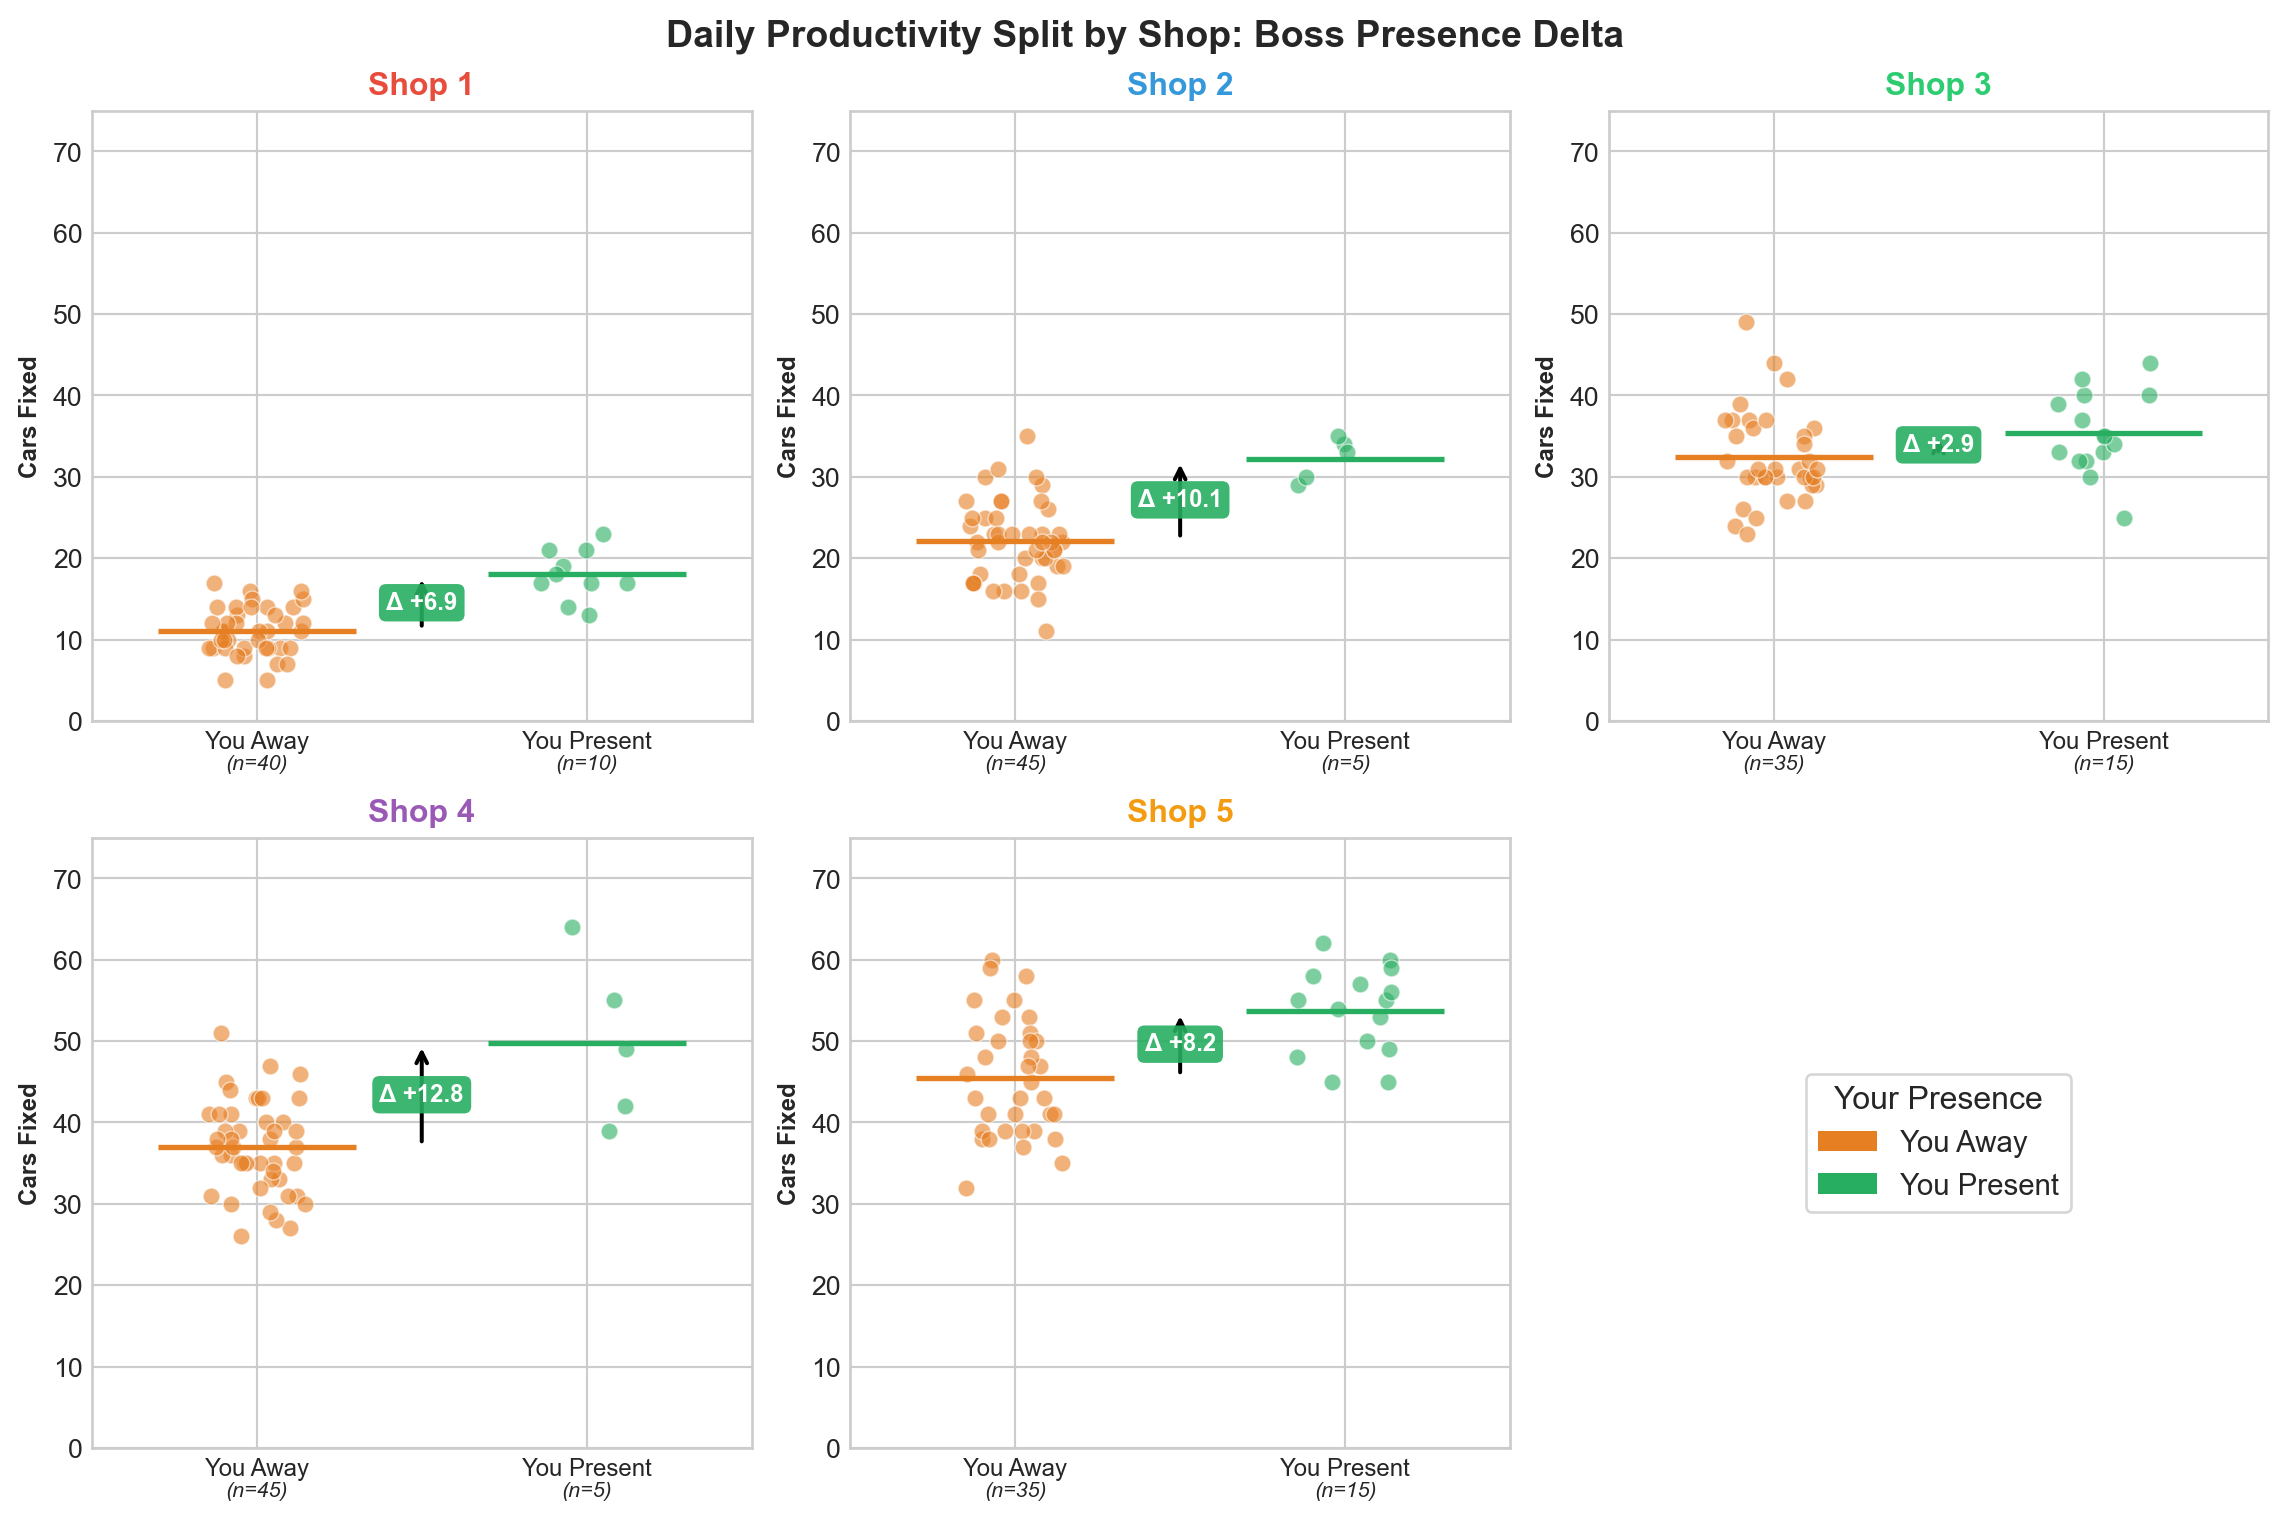
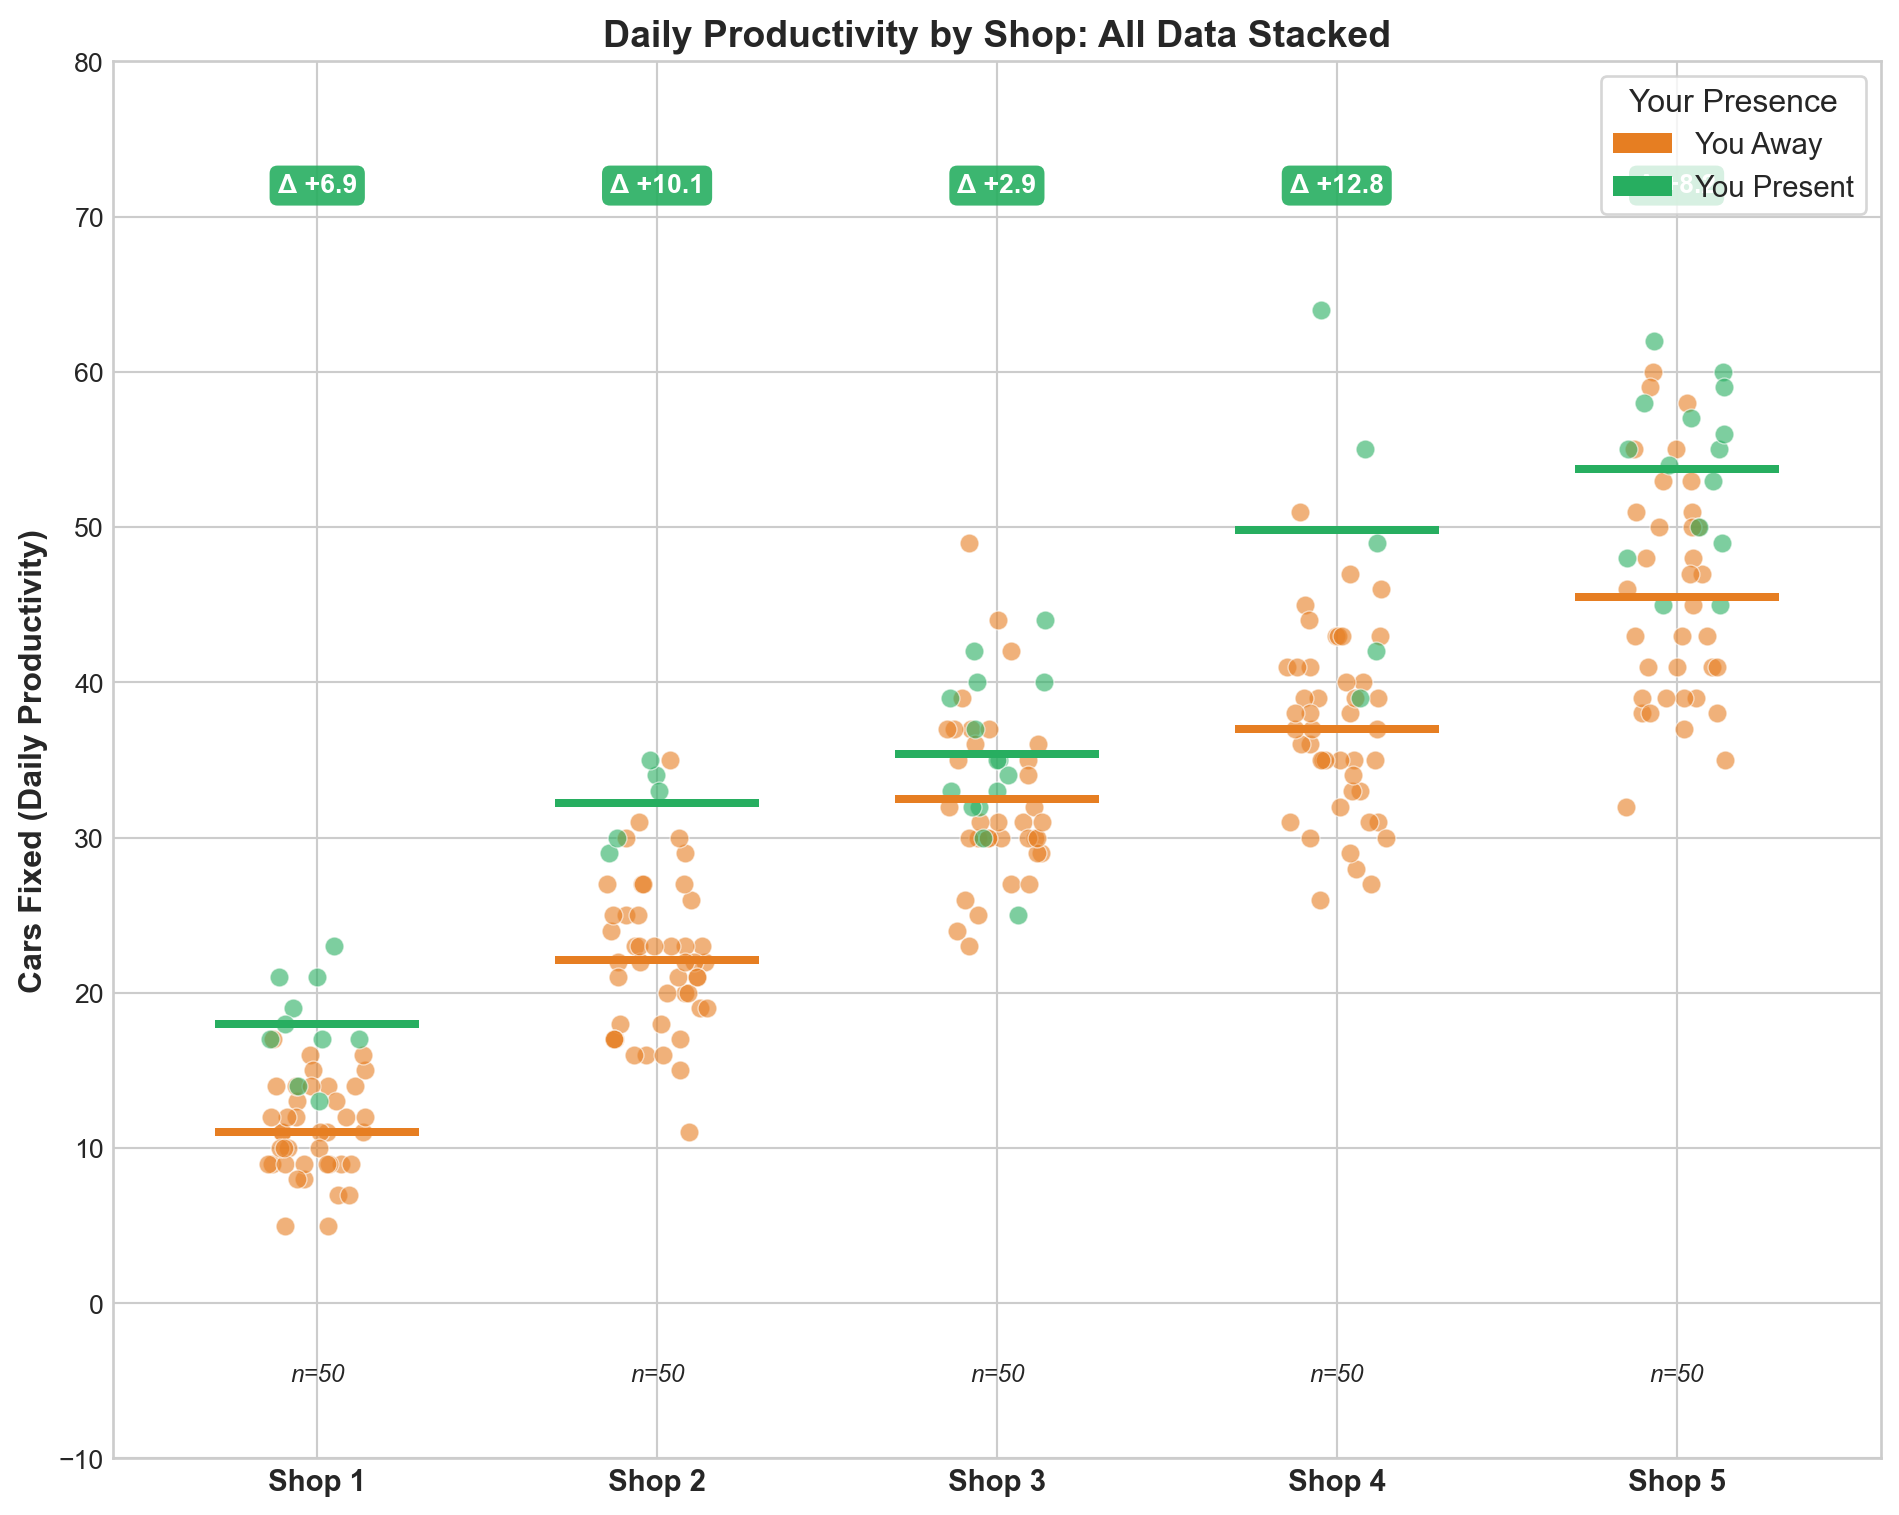
Update index.qmd and generated outputs

diff --git a/index.html b/index.html
@@ -105,23 +105,23 @@ ul.task-list li input[type="checkbox"] {
 <section id="what-the-data-shows" class="level2">
 <h2 class="anchored" data-anchor-id="what-the-data-shows">What the Data Shows</h2>
 <p>We analyzed 250 days of productivity data across your 5 shops. Here’s every single day plotted—you can see the pattern clearly:</p>
-<div id="36f07e7e" class="cell" data-fig-height="8" data-fig-width="12" data-execution_count="2">
+<div id="d5fda921" class="cell" data-fig-height="8" data-fig-width="10" data-execution_count="2">
 <div class="cell-output cell-output-display">
 <div class="quarto-figure quarto-figure-center">
 <figure class="figure">
-<p><img src="index_files/figure-html/cell-3-output-1.png" width="1144" height="760" class="figure-img"></p>
+<p><img src="index_files/figure-html/cell-3-output-1.png" width="950" height="758" class="figure-img"></p>
 <figcaption>Each dot is one day. Green = you were there. Orange = you were away. Delta shows the difference in average cars fixed.</figcaption>
 </figure>
 </div>
 </div>
 </div>
-<p><strong>What you see:</strong> Each panel shows one shop, with data points split by your presence. The delta (Δ) shows how many more cars get fixed when you’re there. Shop 4 has the biggest delta (+12.6), while Shop 3 (your brother’s shop) shows the smallest improvement (+3.4). Notice how Shop 2’s high delta (+10.1) comes from just 5 data points—less reliable than the others.</p>
+<p><strong>What you see:</strong> All shops are stacked in one view, with each column showing one shop’s daily productivity. Green dots = you were there, orange dots = you were away. The horizontal lines show the mean for each condition. The delta (Δ) shows how many more cars get fixed when you’re there. Shop 4 has the biggest delta (+12.6), while Shop 3 (your brother’s shop) shows the smallest improvement (+3.4).</p>
 <hr>
 </section>
 <section id="distribution-comparison-violin-plot" class="level2">
 <h2 class="anchored" data-anchor-id="distribution-comparison-violin-plot">Distribution Comparison: Violin Plot</h2>
 <p>This violin plot reveals the full shape of productivity distributions—not just averages, but how spread out and consistent each shop performs:</p>
-<div id="e44502a3" class="cell" data-fig-height="6" data-fig-width="8" data-execution_count="3">
+<div id="662a1bc4" class="cell" data-fig-height="6" data-fig-width="8" data-execution_count="3">
 <div class="cell-output cell-output-display">
 <div class="quarto-figure quarto-figure-center">
 <figure class="figure">
@@ -137,11 +137,11 @@ ul.task-list li input[type="checkbox"] {
 <section id="split-violin-plot-direct-comparison-by-shop" class="level2">
 <h2 class="anchored" data-anchor-id="split-violin-plot-direct-comparison-by-shop">Split Violin Plot: Direct Comparison by Shop</h2>
 <p>This split violin plot shows the productivity distribution for each shop with boss presence on opposite sides—making it easy to compare the “shape” of performance directly:</p>
-<div id="ce65175b" class="cell" data-fig-height="6" data-fig-width="8" data-execution_count="4">
+<div id="32ad083c" class="cell" data-fig-height="8" data-fig-width="8" data-execution_count="4">
 <div class="cell-output cell-output-display">
 <div class="quarto-figure quarto-figure-center">
 <figure class="figure">
-<p><img src="index_files/figure-html/cell-5-output-1.png" width="758" height="566" class="figure-img"></p>
+<p><img src="index_files/figure-html/cell-5-output-1.png" width="758" height="758" class="figure-img"></p>
 <figcaption>Split violin plot: Each shop’s productivity distribution split by boss presence (orange = away, green = present)</figcaption>
 </figure>
 </div>
@@ -153,7 +153,7 @@ ul.task-list li input[type="checkbox"] {
 <section id="d-view-shop-performance-landscape" class="level2">
 <h2 class="anchored" data-anchor-id="d-view-shop-performance-landscape">3D View: Shop Performance Landscape</h2>
 <p>Here’s an interactive 3D perspective showing all three dimensions at once—Shop ID, your presence status, and cars fixed:</p>
-<div id="4c04d5a2" class="cell" data-fig-height="8" data-fig-width="10" data-execution_count="5">
+<div id="e8c9e2f2" class="cell" data-fig-height="8" data-fig-width="10" data-execution_count="5">
 <div class="cell-output cell-output-display">
 <div class="quarto-figure quarto-figure-center">
 <figure class="figure">
@@ -169,7 +169,7 @@ ul.task-list li input[type="checkbox"] {
 <section id="the-boss-boost-effect" class="level2">
 <h2 class="anchored" data-anchor-id="the-boss-boost-effect">The “Boss Boost” Effect</h2>
 <p>Here’s the real question: <strong>How many extra cars get fixed when you’re at each shop?</strong></p>
-<div id="7fab876b" class="cell" data-fig-height="5" data-fig-width="9" data-execution_count="6">
+<div id="8a69b66a" class="cell" data-fig-height="5" data-fig-width="9" data-execution_count="6">
 <div class="cell-output cell-output-display">
 <div class="quarto-figure quarto-figure-center">
 <figure class="figure">
@@ -226,7 +226,7 @@ ul.task-list li input[type="checkbox"] {
 <section id="how-confident-can-you-be" class="level2">
 <h2 class="anchored" data-anchor-id="how-confident-can-you-be">How Confident Can You Be?</h2>
 <p><strong>The honest truth:</strong> We only have 250 days of data, and you weren’t at every shop equally. Here’s what that means:</p>
-<div id="755d826b" class="cell" data-fig-height="3" data-fig-width="6" data-execution_count="7">
+<div id="76305dcf" class="cell" data-fig-height="3" data-fig-width="6" data-execution_count="7">
 <div class="cell-output cell-output-display">
 <div class="quarto-figure quarto-figure-center">
 <figure class="figure">
@@ -253,7 +253,7 @@ ul.task-list li input[type="checkbox"] {
 <section id="the-money-question" class="level2">
 <h2 class="anchored" data-anchor-id="the-money-question">The Money Question 💰</h2>
 <p>Let’s say each car fixed earns you <strong>$200 in profit</strong>. Here’s what different scheduling strategies could mean for your wallet:</p>
-<div id="1d68d64a" class="cell" data-fig-height="7" data-fig-width="9" data-execution_count="8">
+<div id="48fccca8" class="cell" data-fig-height="7" data-fig-width="9" data-execution_count="8">
 <div class="cell-output cell-output-display">
 <div class="quarto-figure quarto-figure-center">
 <figure class="figure">
@@ -266,7 +266,7 @@ ul.task-list li input[type="checkbox"] {
 <section id="long-term-profit-projection" class="level3">
 <h3 class="anchored" data-anchor-id="long-term-profit-projection">Long-Term Profit Projection 📈</h3>
 <p>What do these strategies look like over a full year? Here’s how your profits compound:</p>
-<div id="9b007824" class="cell" data-fig-height="5" data-fig-width="7" data-execution_count="9">
+<div id="df7a38c2" class="cell" data-fig-height="5" data-fig-width="7" data-execution_count="9">
 <div class="cell-output cell-output-display">
 <div class="quarto-figure quarto-figure-center">
 <figure class="figure">
@@ -390,7 +390,7 @@ ul.task-list li input[type="checkbox"] {
 </section>
 <section id="one-final-chart-boss-presence-delta-by-shop" class="level3">
 <h3 class="anchored" data-anchor-id="one-final-chart-boss-presence-delta-by-shop">One Final Chart: Boss Presence Delta by Shop</h3>
-<div id="26fe1cbc" class="cell" data-fig-height="8" data-fig-width="12" data-execution_count="10">
+<div id="650b8597" class="cell" data-fig-height="8" data-fig-width="12" data-execution_count="10">
 <div class="cell-output cell-output-display">
 <div class="quarto-figure quarto-figure-center">
 <figure class="figure">
